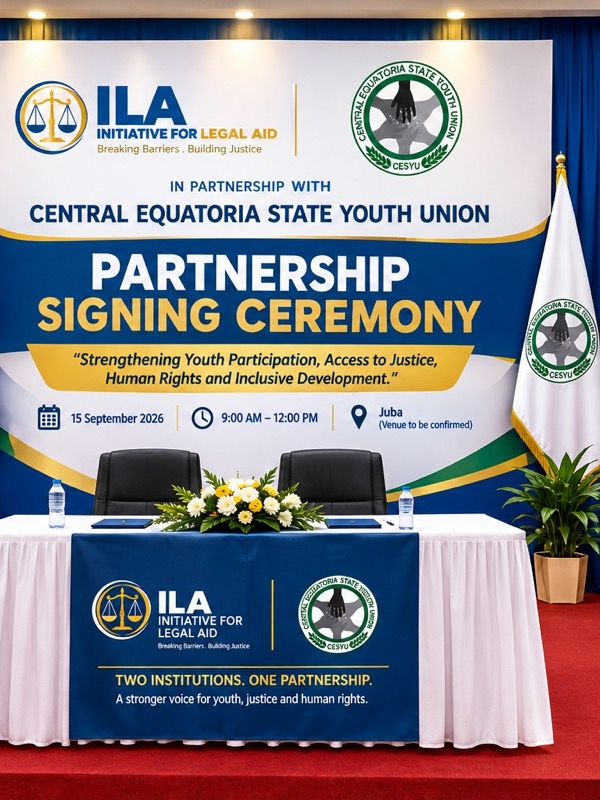
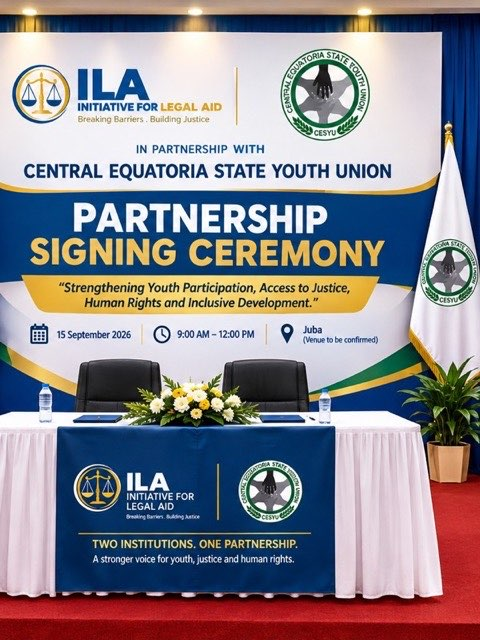
Partnerships: resize + recompress photos (55% lighter), cache-bust URLs

diff --git a/templates/partnerships.html b/templates/partnerships.html
@@ -21,7 +21,7 @@
 
     <div class="partner-card">
       <div class="partner-card-media">
-        <img src="/static/uploads/partner-unfpa.jpeg" alt="UNFPA logo" loading="lazy" />
+        <img src="/static/uploads/partner-unfpa.jpeg?v=2" alt="UNFPA logo" loading="lazy" />
       </div>
       <div class="partner-card-body">
         <span class="eyebrow">Coordination partner</span>
@@ -38,7 +38,7 @@
 
     <div class="partner-card">
       <div class="partner-card-media">
-        <img src="/static/uploads/partner-cesyu.jpeg" alt="Central Equatoria State Youth Union logo" loading="lazy" />
+        <img src="/static/uploads/partner-cesyu.jpeg?v=2" alt="Central Equatoria State Youth Union logo" loading="lazy" />
       </div>
       <div class="partner-card-body">
         <span class="eyebrow">Partnership signing ceremony — 15 September 2026</span>
@@ -58,11 +58,11 @@
 
     <div class="duo-media">
       <figure>
-        <img src="/static/uploads/cesyu-ceremony.jpeg?v=2" alt="Announcement artwork for the CESYU partnership signing ceremony" loading="lazy" />
+        <img src="/static/uploads/cesyu-ceremony.jpeg?v=3" alt="Announcement artwork for the CESYU partnership signing ceremony" loading="lazy" />
         <figcaption>Announcement artwork for the partnership signing ceremony. Image: Initiative for Legal Aid (ILA)</figcaption>
       </figure>
       <figure>
-        <img src="/static/uploads/cesyu-programme.jpeg?v=2" alt="CESYU partnership signing ceremony programme" loading="lazy" />
+        <img src="/static/uploads/cesyu-programme.jpeg?v=3" alt="CESYU partnership signing ceremony programme" loading="lazy" />
         <figcaption>Ceremony programme. Image: Initiative for Legal Aid (ILA)</figcaption>
       </figure>
     </div>

diff --git a/CHANGELOG.md b/CHANGELOG.md
@@ -32,3 +32,4 @@
 2026-09-16 - Organisational profile page + RRC registration: new /profile route + profile.html (who-we-are, legal-status fact grid, statutory RRC registration card — Reg. No. 3561, National Organization, NGOs Act 2016 Ch.3 Sec.10, valid until 27 Aug 2027 — history, philosophy, approach, governance with board committees + official signatories Hon. Milla Amos & Emmanuel Swaka); nav About now links /profile; footer registration line updated to include RRC Reg. No. 3561 via seed (seed_version bumped to 3 so Render DB refreshes on deploy); profile-page CSS (fact-grid, reg-card/reg-table) + cache-bust v=20260916a. Verify: local /profile 200 with all RRC facts; home shows RRC Reg. No. 3561 in footer; compile OK.
 2026-09-16 - Profile page: added Tax Compliance Certificate section (SSRA, compliant status, number/validity on request) after RRC registration; fixed section background alternation. Files: templates/profile.html. Verify: local /profile 200 with 4 tax-compliance mentions; pushed and Render auto-deploy.
 2026-09-16 - Profile page: added Bank Details section for partners/donors (account name Initiative for Legal Aid, Juba branch; bank/account/SWIFT available on request pending real details from user). Files: templates/profile.html. Verify: local /profile 200, 8 bank-detail mentions, sections alternate cleanly.
+2026-09-16 - Partnerships photos resized for web: UNFPA logo 833x406/41KB to 440x214/15KB, CESYU logo 640x640/37KB to 440x440/29KB, ceremony artwork 600x800/166KB to 480x640/88KB, programme 768x1024/124KB to 480x640/94KB (~55% lighter total); cache-bust ?v=2/3 on img URLs. Files: static/uploads/partner-*.jpeg cesyu-*.jpeg templates/partnerships.html. Verify: /partnerships 200, images 200 at reduced sizes.
